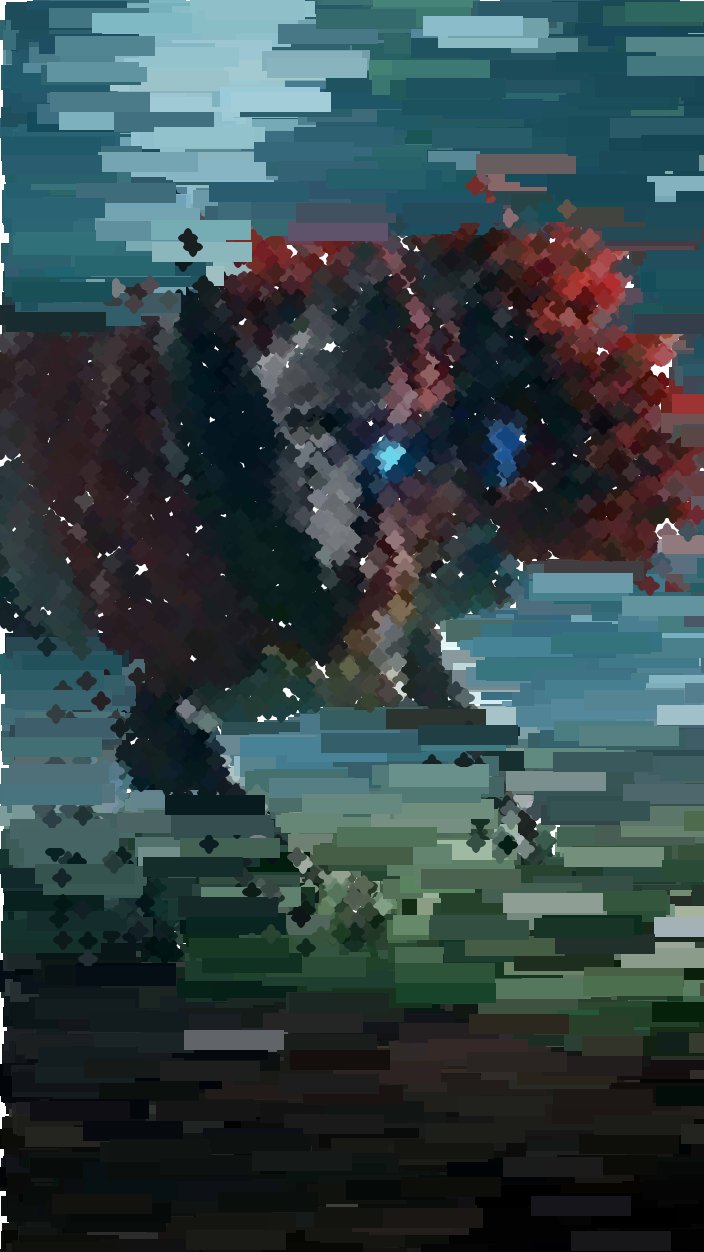
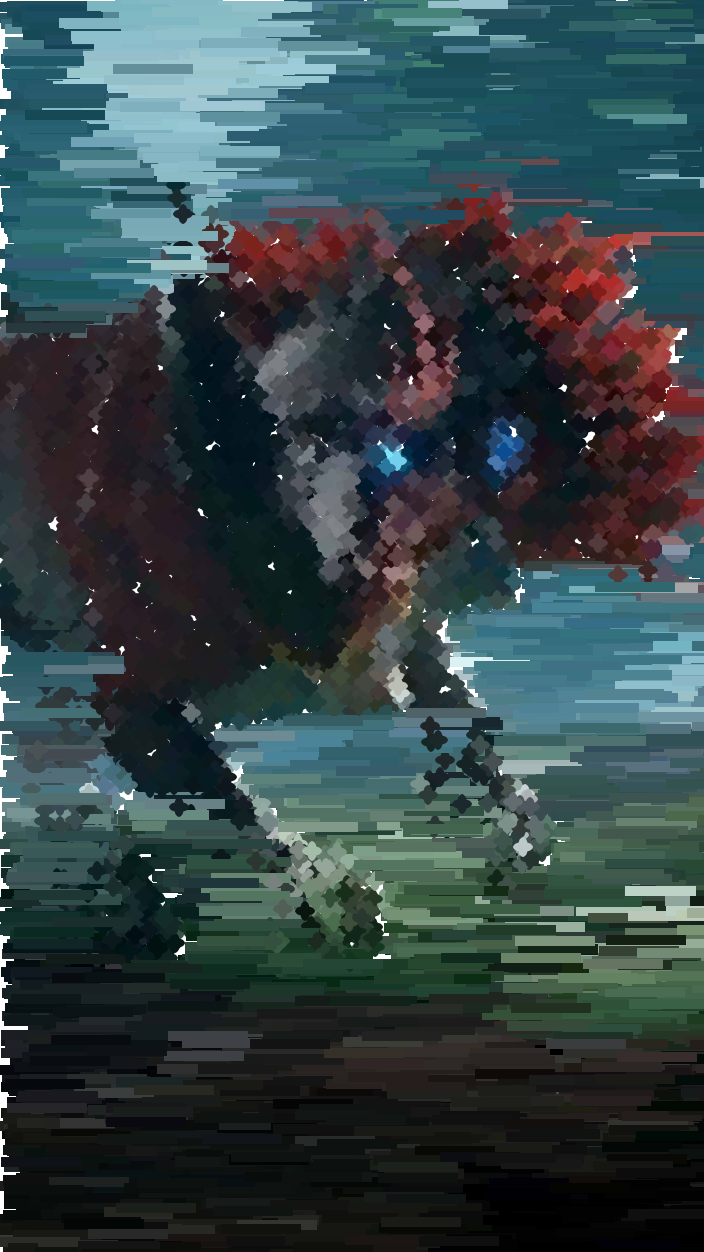
Played around with the sizes of the ellipses and rects.

diff --git a/sketch.js b/sketch.js
@@ -2,9 +2,9 @@ let sourceImg=null;
 let maskImg=null;
 let renderCounter=0;
 
-let sourceFile = "input_1.jpg";
-let maskFile   = "mask_1.png";
-let outputFile = "artwork_1.png";
+let sourceFile = "input_3.jpg";
+let maskFile   = "mask_3.png";
+let outputFile = "artwork_3.png";
 
 function preload() {
   sourceImg = loadImage(sourceFile);
@@ -17,7 +17,7 @@ function setup () {
 
   imageMode(CENTER);
   noStroke();
-  background(255);
+  background(100);
   sourceImg.loadPixels();
   maskImg.loadPixels();
 }
@@ -29,16 +29,17 @@ function draw () {
     let pix = sourceImg.get(x, y);
     let mask = maskImg.get(x, y);
     let pointSize = 20;
-    let halfSize = 50;
+    let halfSize = 40;
     fill(pix);
     if(mask[0] > 128) {
       ellipse(x, y, pointSize, pointSize/2);
       ellipse(x, y, pointSize/2, pointSize);
     }
     else {
-      rect(x, y, pointSize*5, pointSize);
+      rect(x, y, pointSize/4, pointSize*6);
     }
   }
+
   renderCounter = renderCounter + 1;
   if(renderCounter > 10) {
     console.log("Done!")

diff --git a/README.md b/README.md
@@ -1,3 +1,9 @@
 ## Creative Coding 2: Custom Pixel
 
-First actual change to the code. I wanted to see how this would affect the images especially since I have 2 monsters and one human test picture. The human picture and mask seems to work quite well with this change I made, but the other 2 look extremely blocky in comparison because of the either the background or the actual figure of the image. So I am just guessing that anything that is not humanoid will not look too well with these changes, however, I do like the image that it produced on the image of the person. The person looks like she is fading away with the rect blocks overlapping the mask a bit. It might be worth looking into but I don't know exactly what I want to do for the main theme of my 3 images yet so I am just going to explore a bit more during the weekends + monday since we have a break. So far I like the ellipse idea but I want to see if I can expand on it more.
+Image 1: Texted out how making the shapes thinner would change the overall aesthetic of the image. From the image that came out it seems to have a lot of white patches which I do not like all too much. I feel like it is quite off putting and just does not look right.
+
+Image 2: Changed the size of ellipses back to what they were originally since I was not fond of the white patches that showed up in the back. I also made the rect just a bit thicker width wise (/4) and cut down the length of it by /2 to make short thick lines to see how that would work on the background. It looks alright for the most part but I think it just looks boring. Nothing is really happening so I feel like I need to do just slightly more drastic changes.
+
+Image 3: Just changed the background cause I wanted to try out how it will look like. Increased the height by 6 and divided the width by 4 to make it. Looks quite interesting but I don't know if I want to add it to the final.
+
+These tests are just to help me find some idea for what type of theme I want. I feel like I want to make a glitchy type of pixel art so Im going to play with the masking and redo the tiles.
